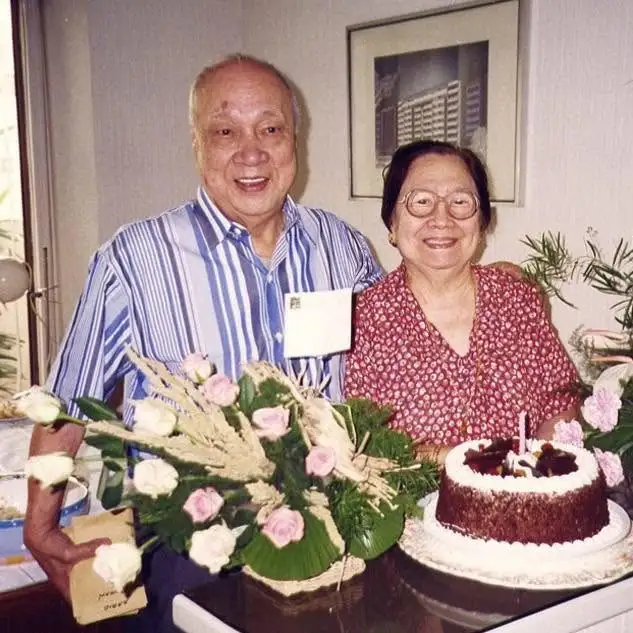
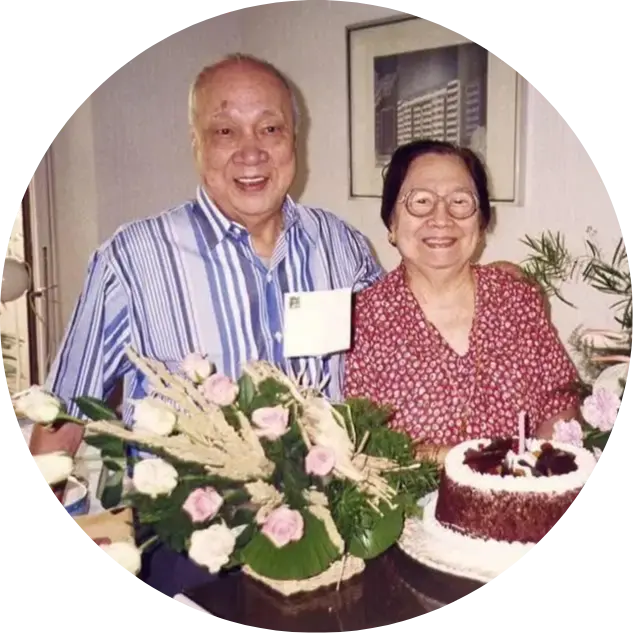
hotfix: parent container sizing for partners

diff --git a/src/features/home/components/partners.tsx b/src/features/home/components/partners.tsx
@@ -10,7 +10,7 @@ const Partners = () => {
     <Section
       aria-labelledby="partners-heading"
       sectionClassName="bg-foreground/3"
-      divClassName="flex flex-col gap-10 mx-auto"
+      divClassName="flex flex-col gap-6 mx-auto w-full"
     >
       <Heading id="partners-heading" level={2} className="text-center">
         Our Partners
@@ -20,7 +20,7 @@ const Partners = () => {
         {partners.map((p) => (
           <div
             key={p.name}
-            className="group flex flex-col gap-2 h-50 w-40 items-center opacity-60 hover:opacity-100"
+            className="group flex flex-col gap-4 w-40 items-center opacity-60 hover:opacity-100"
           >
             <div className="relative h-16 w-20 shrink-0">
               <Image
@@ -28,12 +28,13 @@ const Partners = () => {
                 alt={p.name}
                 fill
                 sizes="144px"
+                unoptimized
                 className="object-contain"
               />
             </div>
 
             <Text
-              size="sm"
+              size="xs"
               className="w-full text-center truncate cursor-default group-hover:whitespace-normal group-hover:overflow-visible"
             >
               {p.name}

diff --git a/src/components/ui/text.tsx b/src/components/ui/text.tsx
@@ -1,6 +1,7 @@
 import { cn } from '../../lib/utils'
 
 const sizeClasses = {
+  xs: 'text-xs',
   sm: 'text-sm',
   md: 'text-base',
   lg: 'text-lg',
@@ -19,7 +20,7 @@ export default function Text({
   className,
   children,
 }: {
-  size?: 'sm' | 'md' | 'lg' | 'xl'
+  size?: 'xs' | 'sm' | 'md' | 'lg' | 'xl'
   transform?: 'none' | 'uppercase' | 'lowercase'
   className?: string
   children: React.ReactNode